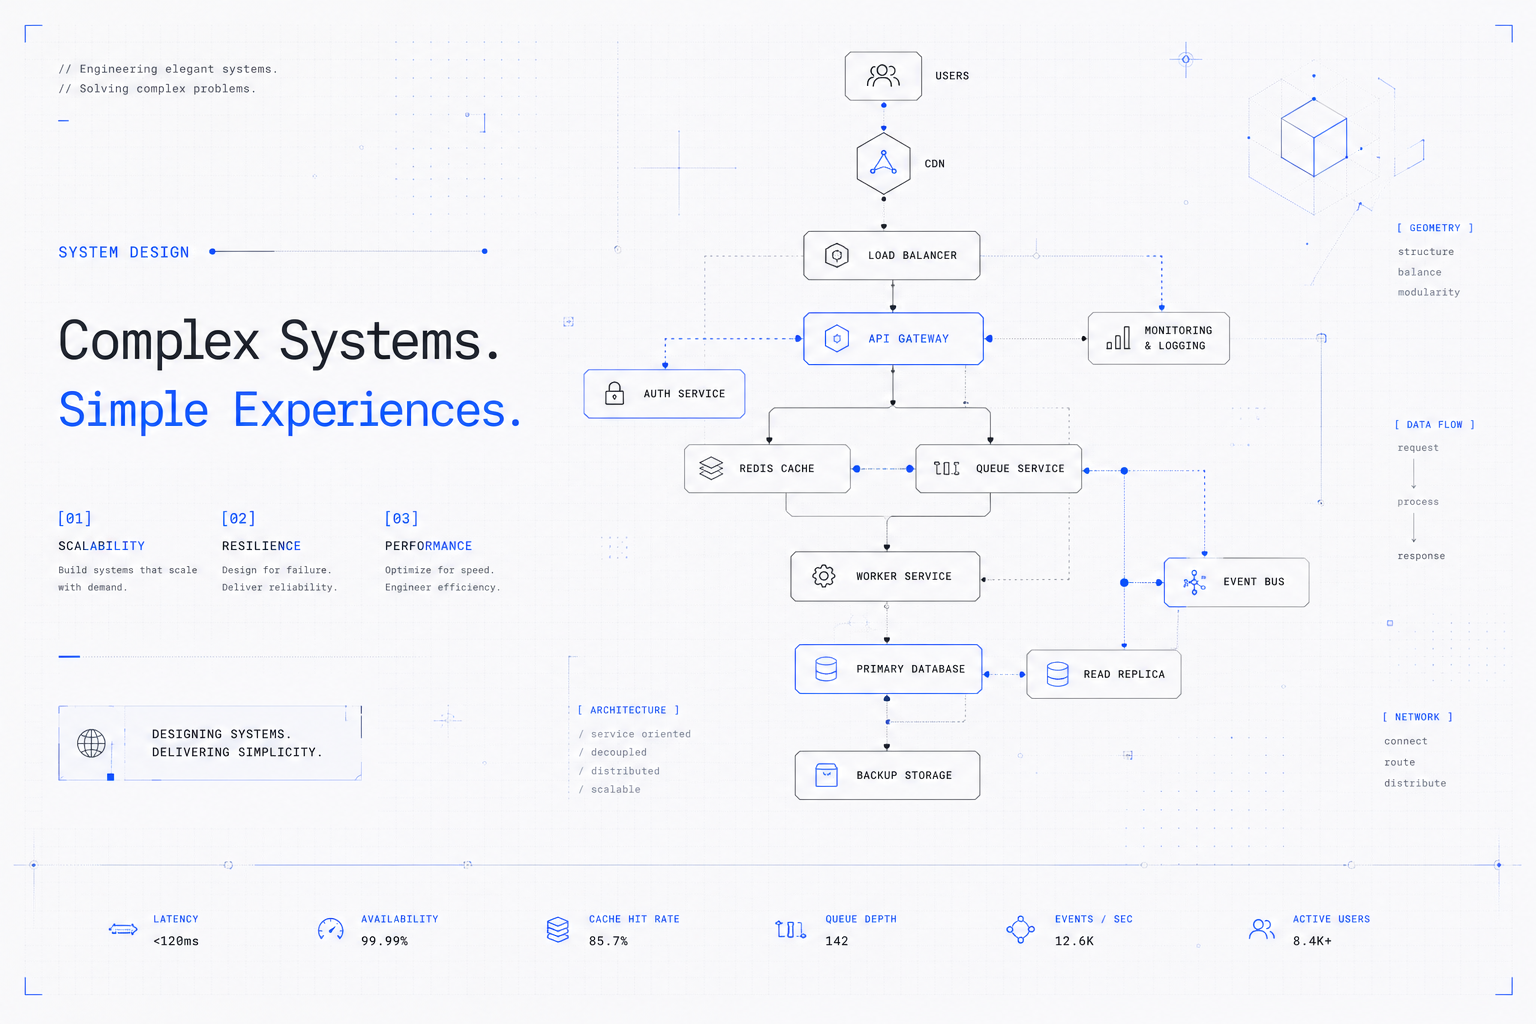
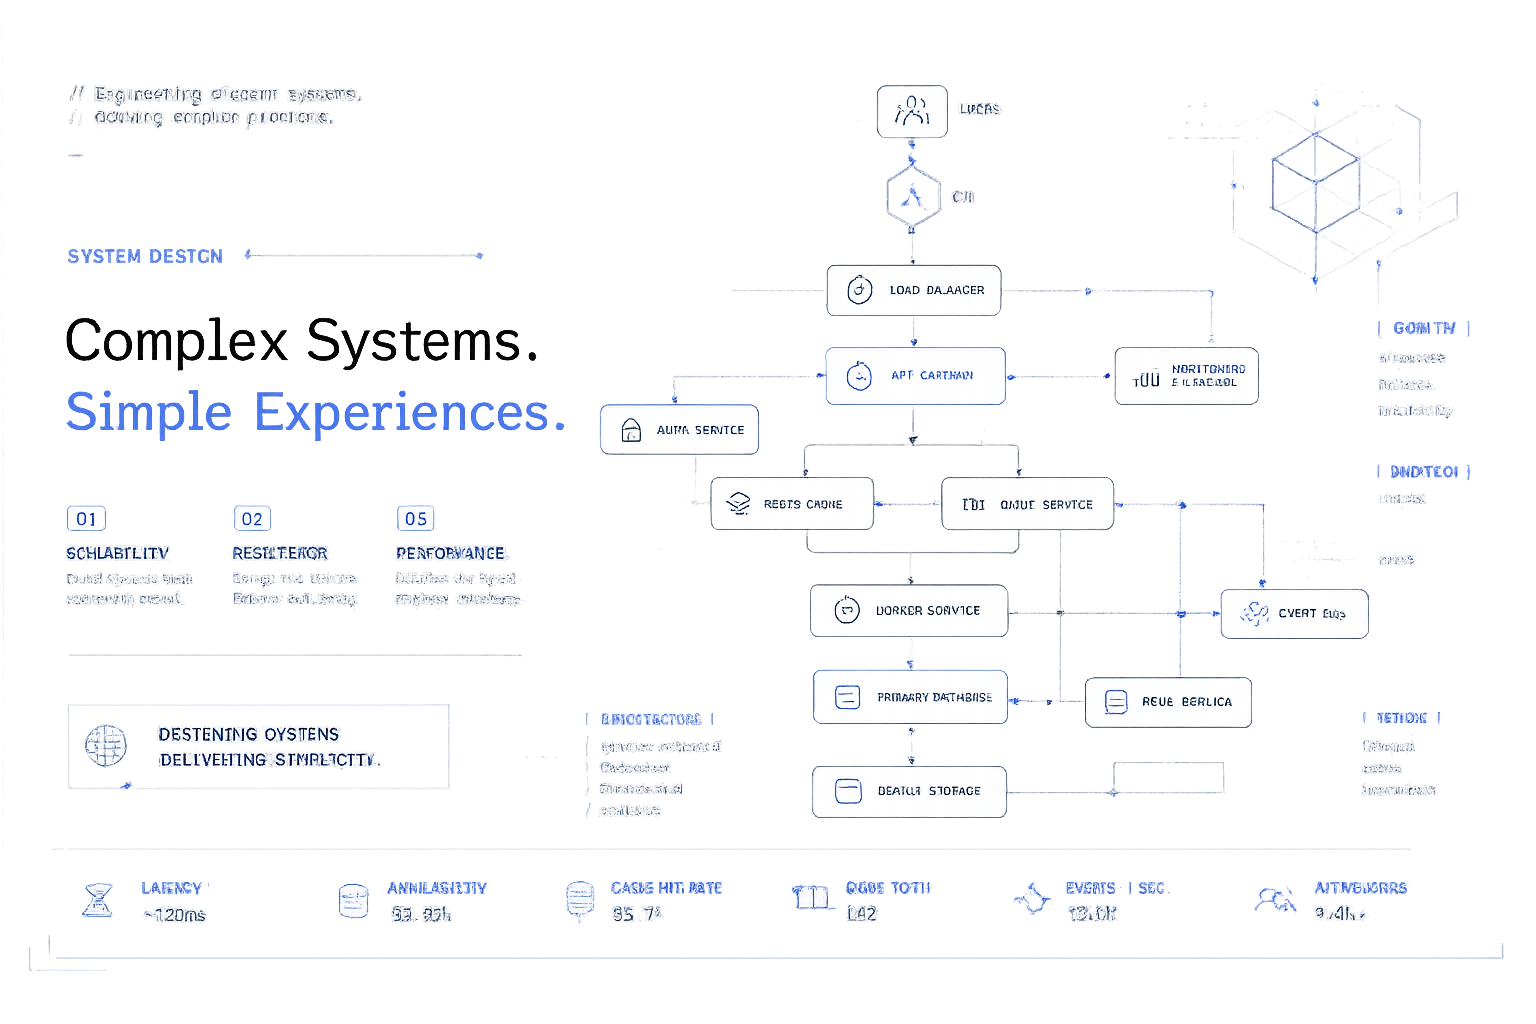
fix: Switch hero to blueprint SVG + completely rewrite footer with hardcoded colors (no CSS vars)

diff --git a/README.md b/README.md
@@ -1,5 +1,5 @@
 <div align="center">
-  <img src="assets/new%20hero.png" width="100%" alt="Naseer Pasha - Hero">
+  <img src="assets/blueprint-hero.svg?v=5" width="100%" alt="System Architecture Blueprint">
 </div>
 
 <br>
@@ -131,5 +131,5 @@ const naseer = {
 <div align="center">
   <img src="https://komarev.com/ghpvc/?username=Naseer-047&color=2563eb&style=for-the-badge&label=PROFILE+VIEWS" alt="Profile Views" />
   <br><br>
-  <img src="assets/footer.svg?v=1001" width="100%" alt="Footer" />
+  <img src="assets/footer.svg?v=2000" width="100%" alt="Footer" />
 </div>
